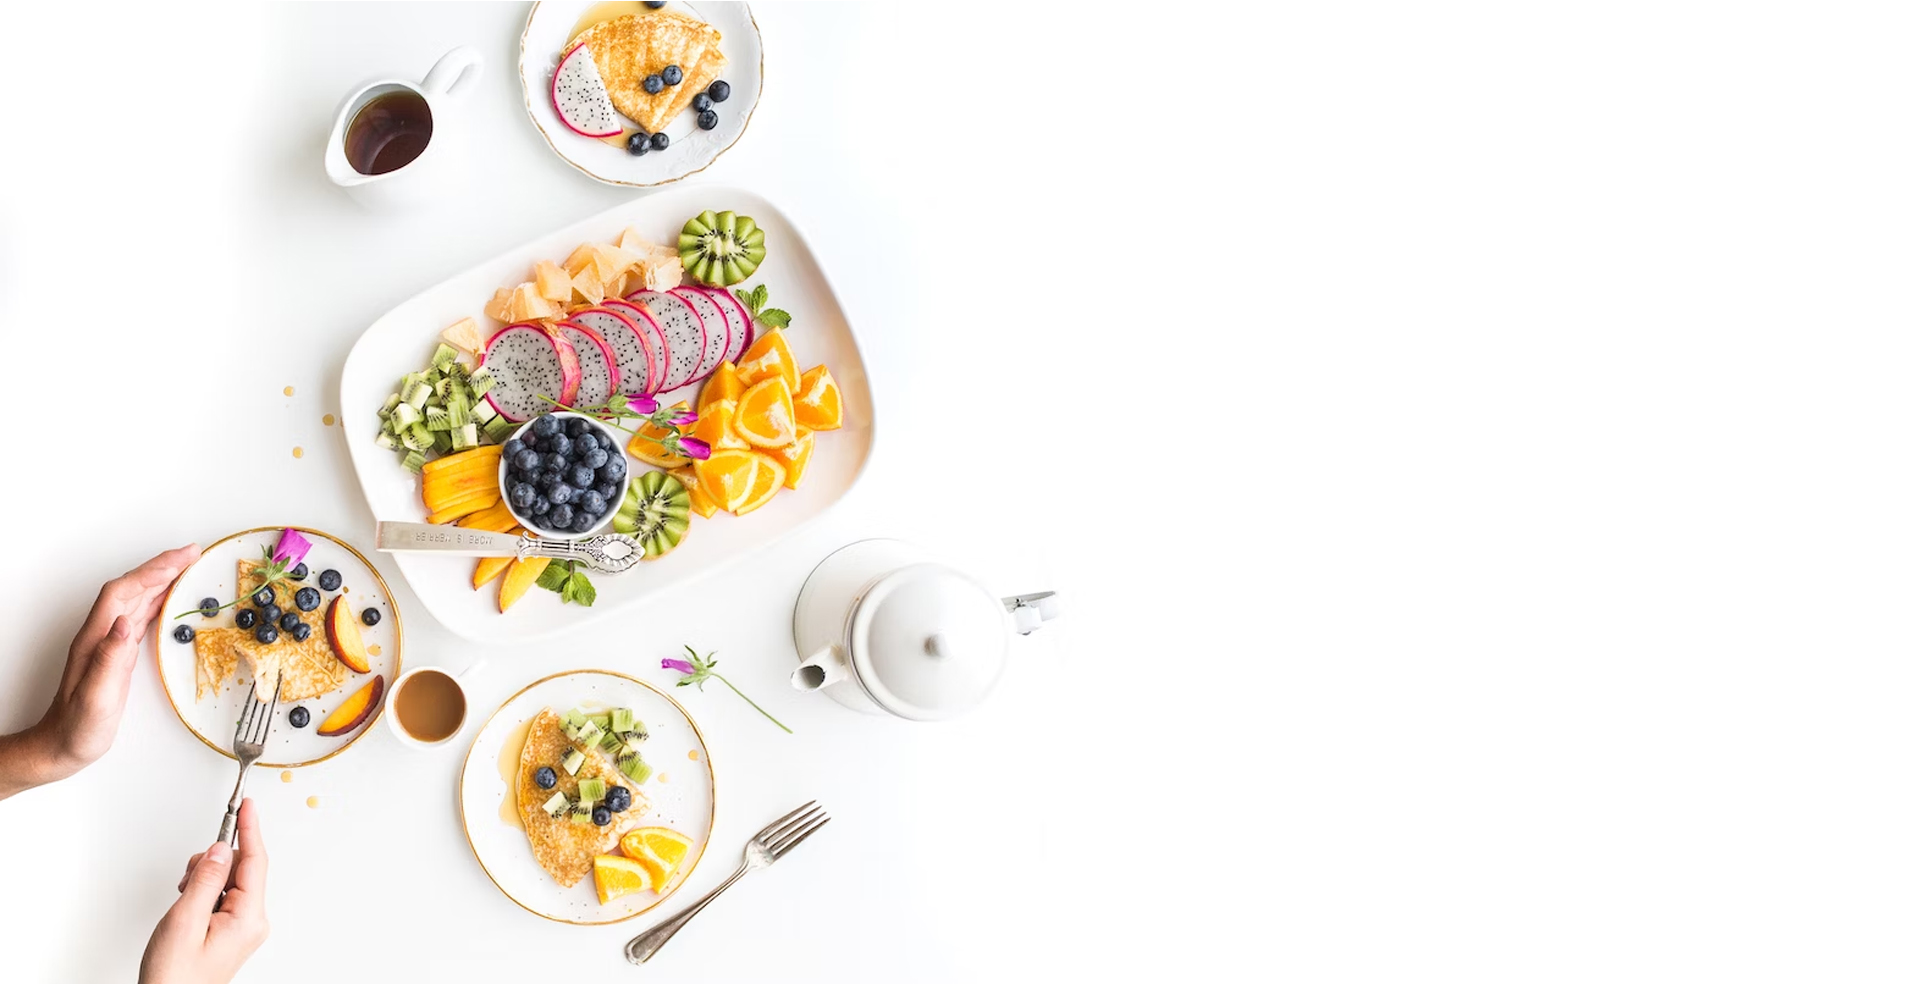
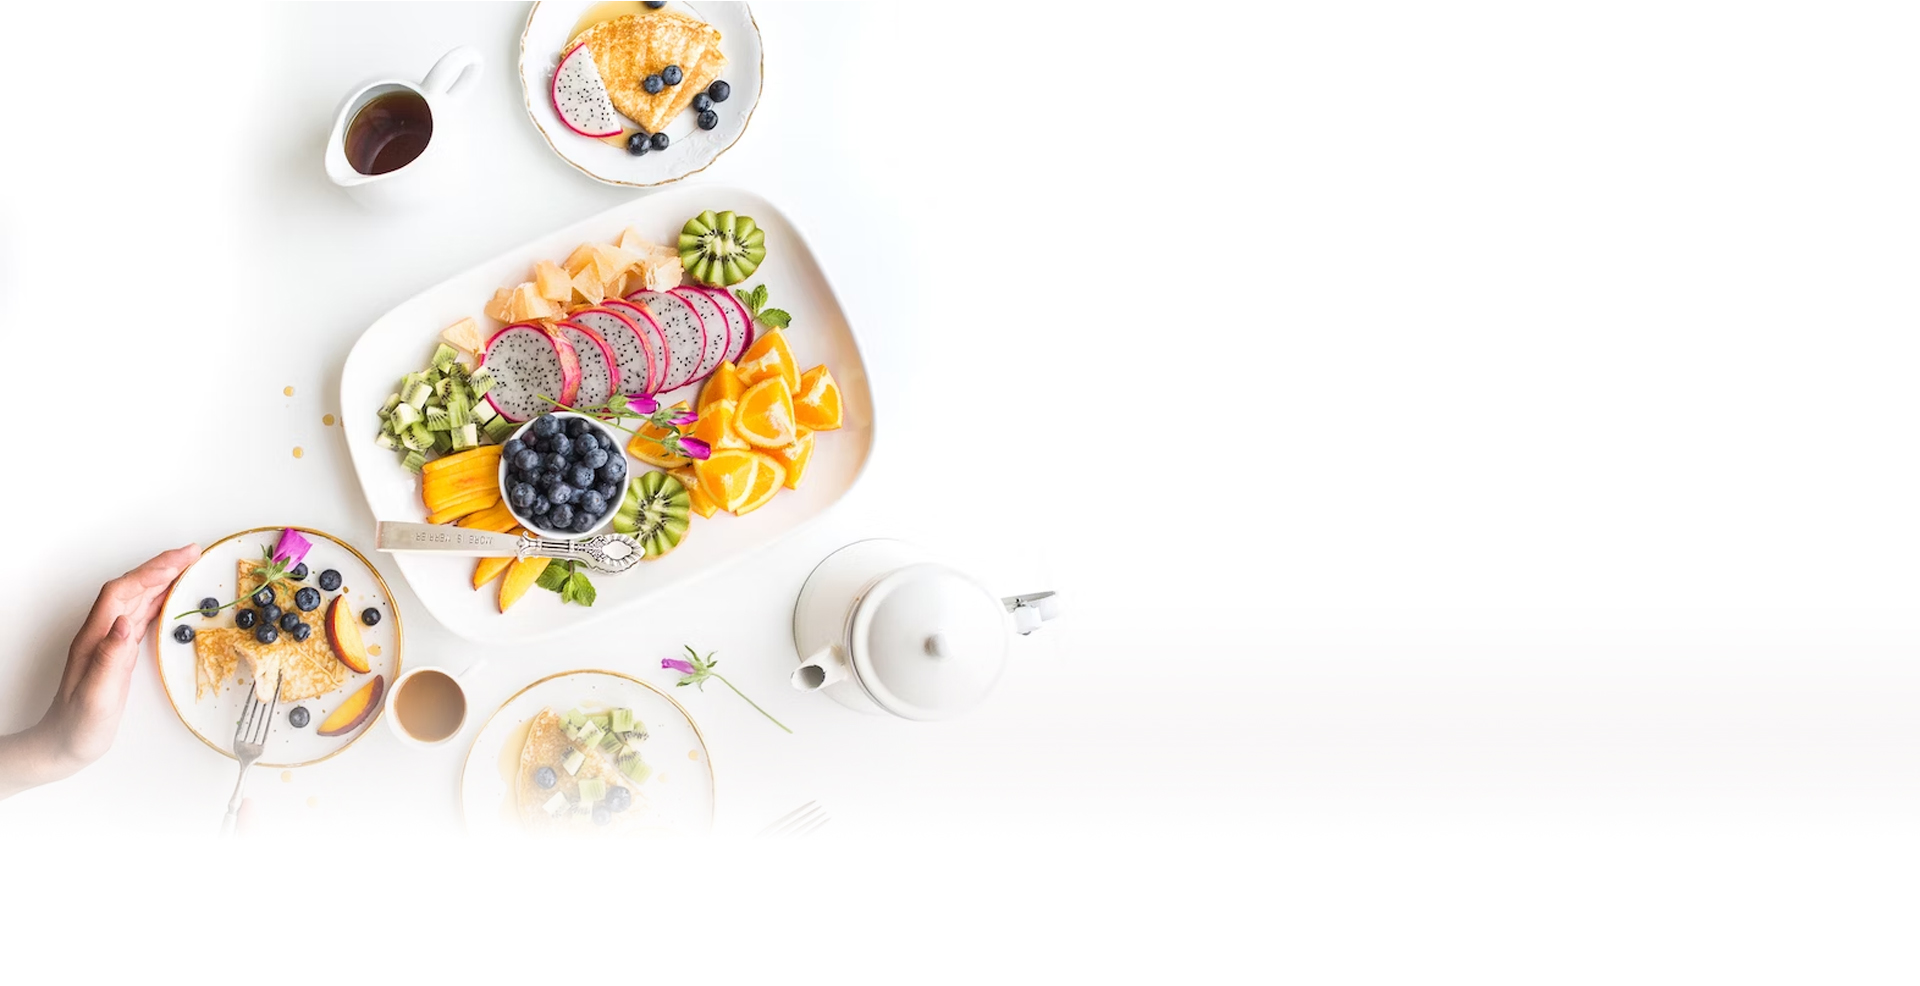
subscribe section

Changed region(s): [[0.0312, 0.6694, 0.4375, 1.0], [0.0, 0.6694, 0.0625, 0.8215], [0.4062, 0.6694, 0.4375, 0.6998]]

diff --git a/styles/index.css b/styles/index.css
@@ -30,10 +30,51 @@ body {
 	color: #000;
 }
 
+section {
+	height: 100%;
+	padding: 1rem 0;
+	background: linear-gradient(
+		90deg,
+		rgb(255, 255, 255) 0%,
+		rgba(255, 255, 255, 0) 100%
+	);
+}
+
+input {
+	padding: 1rem 8rem 1rem 1rem;
+	margin-right: 0.8rem;
+	font-size: 0.8rem;
+	border: 2px solid #94a3b8;
+	background-color: transparent;
+}
+
+input::placeholder {
+	color: #94a3b8;
+}
+
 /* reusable tags */
 
 .container {
 	margin: 0 auto;
+}
+
+.btn {
+	display: inline-block;
+	padding: 1rem 3rem;
+	font-family: 'Raleway', sans-serif;
+	font-weight: 500;
+	letter-spacing: 0.08rem;
+	color: #fff;
+	border: 2px solid #000;
+	background-color: #000;
+	cursor: pointer;
+	transition: var(--transition);
+}
+
+.btn:hover {
+	border-color: #db2777;
+	background-color: #db2777;
+	box-shadow: 0 1rem 1rem rgba(0, 0, 0, 0.2);
 }
 
 /* .btn {
@@ -82,7 +123,7 @@ nav {
 }
 
 .nav-menu a:hover {
-	color: #f97316;
+	color: #4d7c0f;
 }
 
 .nav-logo a:hover {
@@ -104,11 +145,11 @@ nav {
 
 /* javascript - window scroll */
 
-/* .window-scroll {
-	background-color: #000;
+.window-scroll {
+	background-color: #f5f5f5;
 	box-shadow: 0 1rem 2rem rgba(0, 0, 0, 0.2);
 	transition: all 500ms ease;
-} */
+}
 
 /* header */
 
@@ -209,4 +250,28 @@ header {
 	font-weight: 500;
 	letter-spacing: 0.08rem;
 	color: #737373;
+}
+
+/* subscribe */
+
+.subscribe-container {
+	width: var(--container-width-lg);
+	height: 100%;
+	display: flex;
+	align-items: center;
+	justify-content: center;
+	gap: 4rem;
+	position: relative;
+	top: -0.2rem;
+	padding: 2rem;
+	font-family: 'Merriweather', serif;
+	font-size: 1.2rem;
+	color: #000;
+	background-color: #fdf2f8;
+	box-shadow: 0 1rem 1rem rgba(0, 0, 0, 0.3);
+	z-index: 10;
+}
+
+.subscribe-container span {
+	text-decoration: underline;
 }

diff --git a/index.html b/index.html
@@ -62,6 +62,16 @@
 				</div>
 			</div>
 		</header>
+		<section class="subscribe">
+			<div class="container subscribe-container">
+				<h3>Get Our <span>Free</span> Cookbook Today!</h3>
+				<div class="input-div">
+					<input type="text" placeholder="Your name*" required />
+					<input type="text" placeholder="Your email*" required />
+					<button class="btn">SUBSCRIBE</button>
+				</div>
+			</div>
+		</section>
 		<script src="./scripts/script.js"></script>
 	</body>
 </html>
